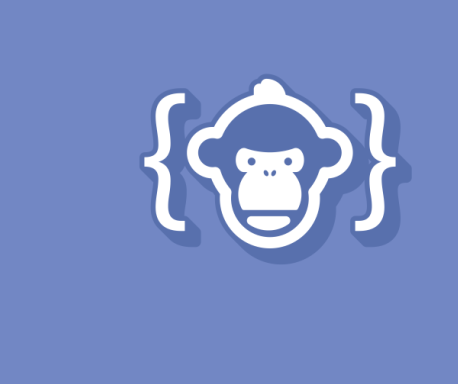
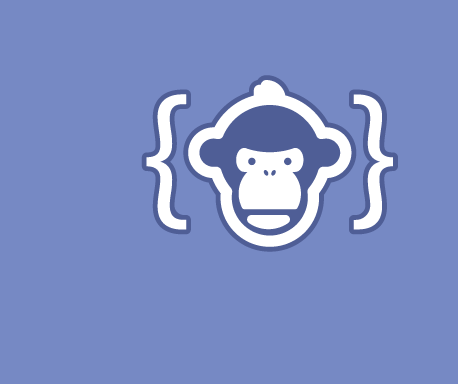
Cleaned up

diff --git a/README.md b/README.md
@@ -17,7 +17,6 @@ The font used for "Code Monkeys" is [Dosis](https://fonts.google.com/specimen/Do
 
 The font used in previous logos is [Saucer BB](http://www.fontspace.com/blambot/saucer-bb)
 
-### Background: `#7688C4`
+### Background: `#7289DA`
 ### Foreground 1: `#FFFFFF`
-### Foreground 2: `#CCD6ED`
-### Shadow: `#5770AD`
+### Shadow: `#4E5D94`
